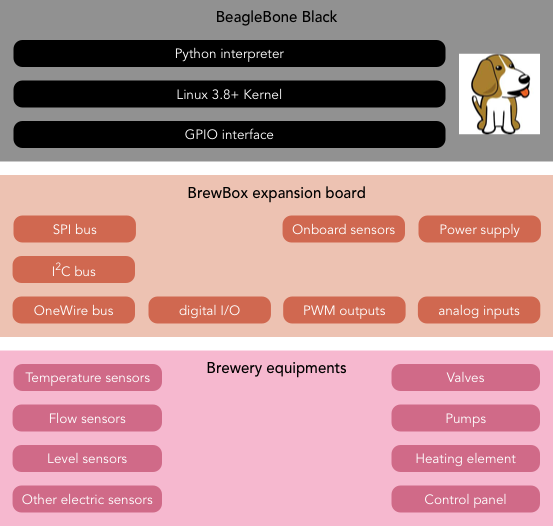
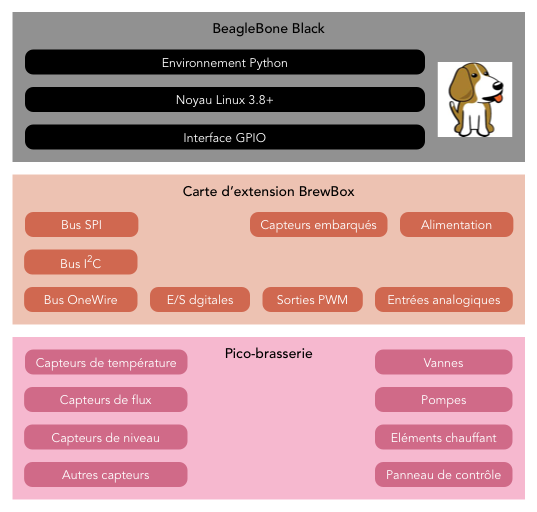
Traduction en français

diff --git a/theme/templates/index.html b/theme/templates/index.html
@@ -1,6 +1,6 @@
 {% extends "base.html" %}
 
-{% block title %}{{ SITENAME }} | Homebrewing goes professional{% endblock title %}
+{% block title %}{{ SITENAME }} | Brasser comme un Pro !{% endblock title %}
 
 {% block content %}
 <section role="main">
@@ -9,7 +9,7 @@
             <div class="col-md-12">
                 <h1 class="text-center"><i class="icon-beer icon-2x"></i>
                     &nbsp;{{ SITENAME }}</h1>
-                <h2 class="text-center">Homebrewing goes professional</h2>
+                <h2 class="text-center">Brasser comme un Pro !</h2>
             </div>
         </div>
     </header>
@@ -24,14 +24,14 @@
                 <i class="icon-beer"></i>
                     &nbsp;{{ SITENAME }}
             </h1>
-            <h2 class="text-center">Homebrewing goes professional</h2>
+            <h2 class="text-center">Brasser comme un Pro !</h2>
         </div>
     </div>
     <div class="row">
         <div class="col-md-8 text-justify">
             <div class="row">
                 <div class="col-md-12 summary text-justify">
-                    <p>Beerfactory provides open-source software and hardware for home brewing activity.</p>
+                    <p>Logiciels et matériels open-source pour l'activité de brassage amateur</p>
                 </div>
             </div>
             <div class="row">
@@ -54,7 +54,7 @@
                     {% endfor %}
                     <hr/>
                     <div class="text-center">
-                        <a href="{{ SITEURL }}/pages/getting-started.html" class="btn btn-lg btn-beer">Get started&nbsp;<i class="icon-circle-arrow-right"></i></a>
+                        <a href="{{ SITEURL }}/pages/getting-started.html" class="btn btn-lg btn-beer">Commencer&nbsp;<i class="icon-circle-arrow-right"></i></a>
                     </div>
                 </div>
             </div>

diff --git a/theme/templates/tag.html b/theme/templates/tag.html
@@ -1,6 +1,6 @@
 {% extends "base.html" %}
 
-{% block title %}{{ SITENAME }} | Blog tag: {{ tag.name }}{% endblock title %}
+{% block title %}{{ SITENAME }} | Etiquette: {{ tag.name }}{% endblock title %}
 
 {% block content %}
 <section role="main">
@@ -39,7 +39,7 @@
                 </p>
                 {{ article.summary }}
                 <p class="continue-reading">
-                    <a href="{{ SITEURL }}/{{ article.url }}">Read more <i class="icon-chevron-right"></i></a>
+                    <a href="{{ SITEURL }}/{{ article.url }}">Plus <i class="icon-chevron-right"></i></a>
                 </p>
                 </article>
             {% endfor %}

diff --git a/theme/templates/base.html b/theme/templates/base.html
@@ -63,7 +63,7 @@
             {% endfor %}
         {% endif %}
         <li class="dropdown .navbar-inverse">
-            <a href="#" class="dropdown-toggle" data-toggle="dropdown">Features <b class="caret"></b></a>
+            <a href="#" class="dropdown-toggle" data-toggle="dropdown">Fonctionnalités <b class="caret"></b></a>
             <ul class="dropdown-menu" role="menu">
             {% for p in pages|sort(attribute="order") %}
                 {% if "features" in p.section %}

diff --git a/theme/templates/tags.html b/theme/templates/tags.html
@@ -1,6 +1,6 @@
 {% extends "base.html" %}
 
-{% block title %}{{ SITENAME }} | Blog tags{% endblock title %}
+{% block title %}{{ SITENAME }} | Etiquettes{% endblock title %}
 
 {% block content %}
 <section role="main">
@@ -25,7 +25,7 @@
         <div class="col-sm-12">
             <h1>
                 <i class="icon-tags icon-large"></i>
-                    &nbsp;Tags
+                    &nbsp;Etiquettes
             </h1>
         </div>
     </div>

diff --git a/theme/templates/archives.html b/theme/templates/archives.html
@@ -39,7 +39,7 @@
                 </p>
                 {{ article.summary }}
                 <p class="continue-reading">
-                    <a href="{{ SITEURL }}/{{ article.url }}">Read more <i class="icon-chevron-right"></i></a>
+                    <a href="{{ SITEURL }}/{{ article.url }}">Plus <i class="icon-chevron-right"></i></a>
                 </p>
                 </article>
             {% endfor %}

diff --git a/theme/templates/category.html b/theme/templates/category.html
@@ -45,7 +45,7 @@
                 </p>
                 {{ article.summary }}
                 <p class="continue-reading">
-                    <a href="{{ SITEURL }}/{{ article.url }}">Read more <i class="icon-chevron-right"></i></a>
+                    <a href="{{ SITEURL }}/{{ article.url }}">Plus <i class="icon-chevron-right"></i></a>
                 </p>
                 </article>
             {% endfor %}

diff --git a/theme/templates/recents.html b/theme/templates/recents.html
@@ -1,5 +1,5 @@
 {% if articles %}
-    <h4>Recent articles</h4>
+    <h4>Articles récents</h4>
     <ul>
         {% for a in articles|batch(5)|first %}
             <li><a href="{{ SITEURL }}/{{ a.url }}">{{ a.title }}</a></li>

diff --git a/theme/templates/news.html b/theme/templates/news.html
@@ -1,5 +1,5 @@
 {% if categories %}
-    <h4>Project news</h4>
+    <h4>Nouvelles du projet</h4>
     <ul>
     {% for cat, arts in categories %}
         {% if "news" in cat.name %}

diff --git a/content/pages/features/brewbox-features.rst b/content/pages/features/brewbox-features.rst
@@ -2,34 +2,34 @@ BrewBox
 #######
 
 :date: 2013-09-07 16:29
-:title: BrewBox features
+:title: BrewBox
 :author: Nico
 :section: features
-:summary: BrewBox consists of hardware and software components combined together to monitor and control a home brewery
-:keywords: BrewBox, monitoring, controlling, automation, DIY, home brewing, beaglebone
+:summary: BrewBox est constitué de composants logiciels et matériels permettant de surveiller et contrôler une pico-brasserie
+:keywords: BrewBox, surveillance, contrôle, automatisation, DIY, brassage amateur, beaglebone
 :icon: icon-signal
 :order: 1
 
-Direct access to feature sections :
+Accès direct aux sections :
 
-- `Monitoring`_
-- `Control`_
+- `Surveillance`_
+- `Contrôle`_
 
-Monitoring
-==========
+Surveillance
+============
 
-Home brewery monitoring means watching different kind of physical quantities which are important during the brewing process like mash steps temperature, boiling control or liquid flow rate. BrewBox helps you in this task by providing an *hardware interface with sensors fitted in your brewery and a software to process data collected from these sensors*.
+Surveiller une pico-brasserie c'est suivre différentes grandeurs physiques qui sont importantes durant le brassage comme la température des paliers d'empâtage, le contrôle de l'ébullition ou les flux de liquides. BrewBox vous aide dans cette tâche en fournissant une *interface matérielle avec les capteurs équipant la pico-brasserie* et un *logiciel de collecte et d'analyse des données provenant de ces capteurs*.
 
-Hardware interface
-------------------
+Interface matérielle
+--------------------
 
-BrewBox hardware is mostly an interface between electronic sensors fitted in a home brewery and BrewBox software used to monitor it. To be able to work with a wide range of sensors BrewBox hardware supports to following inputs types :
+L'interface matérielle de BrewBox est principalement une interface électronique entre les capteurs équipant une pico-brasserie et le logiciel BrewBox chargé de la surveiller. BrewBox dispose d'un nombre important d'interface afin de s'interfacer avec un maximum de capteurs :
 
-- *5V to 12V analog inputs* for active and passive sensors converting physical quantities to analog electric signals like temperature probes or thermocouples
-- *digital inputs* for sensors converting physical quantities to electric pulses like flow transmitter, or on/off sensors like buttons or switches
-- `I2C <http://en.wikipedia.org/wiki/I2C>`_ , `SPI <http://en.wikipedia.org/wiki/SPI>`_ and `1-wire <http://en.wikipedia.org/wiki/1-Wire>`_ bus for sensors converting physical quantities to digital signal.
+- *entrées analogiques 5-12V* pour les capteurs actifs ou passifs convertissant les grandeurs physiques en signaux électriques analogiques comme les thermistances ou les thermocouples;
+- *entrées numériques* pour les capteurs convertissant les grandeurs physiques en pulsions électriques comme les compteurs ou les boutons ;
+- entrées bus `I2C <http://en.wikipedia.org/wiki/I2C>`_ , `SPI <http://en.wikipedia.org/wiki/SPI>`_ et `1-wire <http://en.wikipedia.org/wiki/1-Wire>`_ pur les capteurs interfacés avec ces bus.
 
-Physically, *BrewBox hardware consists of an expansion board* plugged to a `BeagleBone Black (BBB) <http://beagleboard.org/Products/BeagleBone%20Black>`_ using the board GPIO interface. Additionally with a large choice on inputs, BrewBox hardware also provide power supply management and onboard monitoring for the board itself.
+Concrètement, *l'interface matérielle de BrewBox est constituée d'une carte d'extension* connectée à un `BeagleBone Black (BBB) <http://beagleboard.org/Products/BeagleBone%20Black>`_. En plus d'un large choix d'entrée/sorties l'interface matérielle de BrewBox fournit également l'alimentation nécessaire ainsi qu'une surveillance de la carte elle-même.
 
 .. image:: /static/images/arch_schema1.png
    :alt: BrewBox architecture diagram
@@ -37,46 +37,45 @@ Physically, *BrewBox hardware consists of an expansion board* plugged to a `Beag
 
 
 
-Monitoring software
--------------------
+Logiciel de surveillance
+------------------------
 
-BrewBox software collects and convert data coming from sensors through the hardware interface. All the data collected are used to monitor the brewery activity by :
+Le logiciel BrewBox collecte et convertit les données provenant des capteurs au travers de l'interface matérielle. Les données collectées permettent de surveiller l'activité de la pico-brasserie :
 
-- building real time or history graphs for some physical quantities measured by sensors
-- compare physical quantities to expected values (for example mash steps temperature)
-- trigger alert when some value reach some limit
-- storing data collected for afterwards analysis or brewing batches comparison.
+- tracés en temps réel ou en historique de graphiques des grandeurs physiques mesurées
+- comparaison des grandeurs physiques par rapport à des consignes ou des valeurs attendues (par exemple paliers de température d'empâtage)
+- déclenchement d'alertes sur dépassement de valeur d'une grandeur physique
+- enregistrement des données collectées pour analyse à froid ou comparaison des brassages successifs.
 
-BrewBox software is also in charge of driving the hardware board and setting inputs mapping to sensors.
+Le logiciel BrewBox est également responsable du pilotage de la carte d'interface et de la configuration matérielle.
 
-BrewBox is written in `Python language <http://www.python.org>`_ and runs on the BeagleBone Black.
+BrewBox est écrit en `Python <http://www.python.org>`_ et s'exécute sur le BeagleBone Black.
 
 .. image:: /static/images/arch_schema2.png
    :alt: BrewBox architecture diagram
    :align: center
 
-Control
-=======
+Contrôle
+========
 
-Hardware interface
-------------------
+Interface matérielle
+--------------------
 
-Home brewery controling means acting on the brewery equipments in order to go through brewing steps like heating the boil kettle or transfering the mash. Actions can be manual (switching on a pump, lighting a gaz burner, etc.) or automated. This is where BrewBox helps. Besides hardware inputs, BrewBox hardware therefore provides several output types in order to drive brewery actuators :
+Le contrôle et l'automatisation d'un pico-brasserie consiste à agir sur les équipements de la pico-brasserie afin de procéder aux différentes étapes du brassage comme chauffer la cuve d'ébullition ou transférer le moût. Ces actions peuvent être manuelles (actionner une vanne, allumer un bruleur, ...) ou automatisées. C'est là que BrewBox intervient : en plus des entrées précédemment décrites BrewBox fournit différents types de sorties permettant de piloter les actionneurs de la pico-brasserie :
 
-- *5V to 12V digital outputs* used to drive on/off actuators like valves or LED
-- *5V to 12V DC outputs* with `Pulse Width Modulation (PWM) <http://en.wikipedia.org/wiki/Pulse-width_modulation>`_. These outputs can be used to drive and control pump speed
-- *110V or 220V AC* outputs for high voltage actuators. Control is available in two modes :
+- *sorties 5-12V digitales* utilisées pour piloter les actionneurs tout ou rien comme des vannes ou des LED
+- *sorties 5-12V* avec `PWM <http://en.wikipedia.org/wiki/Pulse-width_modulation>`_. Ces sorties peuvent par exemple être utilisées pour piloter et contrôler la vitesse d'une pompe
+- *sorties 110V ou 220V alternatif* pour les actionneurs de puissance. Les pilotage est disponible en deux modes :
 
-  - `solid-state relay <http://en.wikipedia.org/wiki/Solid-state_relay>`_ for on/off actuator
-  - PWM for heater power modulation for example.
+  - `relais SSR <http://en.wikipedia.org/wiki/Solid-state_relay>`_ pour les actionneurs tout ou rien
+  - PWM pour la modulation du chauffage par exemple
 
-Software
+Logiciel
 --------
 
-As for monitoring BrewBox software will drive the hardware interface outputs to control brewery actuators. Values or states sent to outputs will depend on programmatic setup. Brewer will be able to :
+Le logiciel BrewBox pilote l'interface matériel afin de contrôler l'état des actionneurs. Les consignes transmises aux sorties dépendent des actions de l'utilisateur ou de la programmation effectuée :
 
-- manually set the state or value of some outputs
-- automatically trigger state change or value on physical quantity change
-- automatically trigger state change or value on timer
-- drive outputs with a software `PID controller <http://en.wikipedia.org/wiki/PID_controller>`_.
+- Contrôle manuel de l'état de et des consignes de sortie
+- déclenchement automatique de changement d'état en fonction d'une grandeur physique mesurée ou après un temps écoulé
+- asservissement des sorties par contrôleur `PID <http://en.wikipedia.org/wiki/PID_controller>`_ logiciel
 

diff --git a/content/pages/getting_started.rst b/content/pages/getting_started.rst
@@ -1,35 +1,29 @@
-Getting started
-###############
+Commencer
+#########
 
 :date: 2013-08-25 11:47
 :author: Nico
 :section: topbar-first
-:summary: Beerfactory provides open source software and hardware for managing a home brewing activity
+:summary: Beerfactory fournit des logiciels et des matériels libres pour gérer une activité de brassage amateur
 :icon: icon-play-sign
-:keywords: BrewBox, BrewManager, monitoring, controling, automation, DIY, ERP, home brewing
-:description: Getting started with beerfactory projects
+:keywords: BrewBox, BrewManager, surveillance, contrôle, automatisation, DIY, ERP, brassage amateur
+:description: Démarrer avec les projets Beerfactory
 :order: 0
 
-.. raw:: html
 
-  <div class="alert alert-info">
-  This project is in early stage. Read the following pages to know what we try to achieve.
-  </div>
+Qu'est-ce que Beerfactory ?
+---------------------------
 
+Beerfactory a pour objectif de fournir des solutions matérielles et logiciels permettant de gérer l'activité de brassage amateur. Beerfactory s'inspire du phénomène DIY et est constitué actuellement de 2 sous-projets :
 
-What is Beerfactory ?
----------------------
-
-Beerfactory focuses on providing open source/hardware solutions for managing home brewing activity. Beeractory is based on DIY methods and will initially  consist of two sub-projects :
-
- * `BrewBox <|filename|/pages/features/brewbox-features.rst>`_ : software and hardware for *monitoring and controling* the beer production process.
- * `BrewManager <|filename|/pages/features/brewbox-features.rst>`_ : a *lightweight ERP* specialised in home brewing management.
+ * `BrewBox <|filename|/pages/features/brewbox-features.rst>`_ : un ensemble de logiciel et matériel pour *surveiller et contrôler* le processus de production de bière dans une pico-brasserie.
+ * `BrewManager <|filename|/pages/features/brewbox-features.rst>`_ : un *ERP léger* spécialisé dans la gestion du brassage amateur.
 
 
-What Beerfactory is not ?
--------------------------
+Qu'est ce que Beerfactory n'est pas ?
+-------------------------------------
 
-Beerfactory is not a beer recipe designer, there are already plenty of good softwares for this :
+Beerfactory n'est pas un logiciel d'édtion et de conception de recette de bière; Il y a déjà de nombreux logiciels pour ça :
 
  * `Beersmith <http://beersmith.com/>`_
  * `BeerTools <http://www.beertools.com/>`_
@@ -37,9 +31,9 @@ Beerfactory is not a beer recipe designer, there are already plenty of good soft
  * ...
 
 
-What's next ?
--------------
+La suite ...
+------------
 
-The initial goal is to release a first stable bersion of BrewBox. BrewManager will come later. Project activity will be reported on the `blog </category/news.html>`_. Anyone interested in this project is welcome to contribute on the `community forum <http://forum.beerfactory.org>`_ or see the project's source `repositories on Github <https://github.com/beerfactory>`_ .
+Le premier objectif est de publier une première version de BrewBox. BrewManager viendra plus tard ... `Ce blog </category/news.html>`_ rapportera l'activité du projet.
 
-
+Quiconque intéressé par ce projet peut contribuer sur le `forum <http://forum.beerfactory.org>`_ ou en étudiant le code source du projet sur `Github <https://github.com/beerfactory>`_.

diff --git a/content/news/new_website.rst b/content/news/new_website.rst
@@ -1,13 +1,13 @@
-New website available
-#####################
+Nouveau site disponible
+#######################
 
 :date: 2013-08-25 22:22
 :tags: general
 :author: Nico
-:summary: A new version of the project website is now available
+:summary: Nouvelle version du site Web du projet
 
-Welcome to this new website where you'll find here all the information concerning Beerfactory project.
+Bienvenue sur ce nouveau site. Vous y trouverez toutes les informations concernant le projet Beerfactory.
 
-This website has been made with `Pelican <http://blog.getpelican.com/>`_, a static site generator written in python. Pelican allows to build a completelly static site, ie. made of plain old html files. Content is written in simple `reStructuredText <http://docutils.sourceforge.net/rst.html>`_ files and processed using `Jinja2 <http://jinja.pocoo.org/>`_ HTML templates. Generated output is a complete website structure containing HTML files and static resources like CSS files, javascript and images. It's then easy to upload to a minimal webserver. No more PHP or database needed to run a heavy `CMS <http://en.wikipedia.org/wiki/Content_management_system>`_.
+Ce site est construit avec `Pelican <http://blog.getpelican.com/>`_, un générateur de site écrit en Python. Pelican permet de construire simplement un site complètement statique, c'est-à-dire composé uniquement de pages HTML sans moteur côté serveur. Le contenu des pages est écrit dans des fichiers au format `reStructuredText <http://docutils.sourceforge.net/rst.html>`_ et transformé en HTML à partir de modèles HTML par `Jinja2 <http://jinja.pocoo.org/>`_. Le résultat généré correspond à la structure complète du site Web avec les pages, les fichiers CSS, javascript ainsi que les images. Il suffit de télécharger le tout sur un serveur web avec une configuration minimale. Plus besoin de PHP ou de base de données pour faire tourner un `CMS <http://en.wikipedia.org/wiki/Content_management_system>`_.
 
-For information concerning Pelican and how to use it see the `github repository <https://github.com/beerfactory/beerfactory-site>`_ where HTML templates and `reStructuredText <http://docutils.sourceforge.net/rst.html>`_ source files used for this website are stored.
+Pour en savoir plus sur Pelican et son utilisation, reportez-vous au `référentiel github <https://github.com/beerfactory/beerfactory-site>`_ du projet où sont stockés les templates HTML et les fichiers sources de site.

diff --git a/content/pages/about.rst b/content/pages/about.rst
@@ -1,16 +1,16 @@
-About
-######
+A propos
+########
 
 :date: 2013-08-25 11:47
 :author: Nico
 :section: footer
-:summary: General informations about the project
+:summary: Informations générales sur le projet
 :keywords: open-source, homebrewing, DIY
 :icon: icon-question-sign
 :order: 0
 
-Beerfactory is an open-source project created and maintained by `Nicolas Jouanin <https://twitter.com/NicolasJouanin>`_. This project provides both hardware and software solutions for managing homebrewing activity.
+Beerfactory est un projet open-source créé et maintenu par `Nicolas Jouanin <https://twitter.com/NicolasJouanin>`_. Il fournit des solutions matérielles et logicielles pour gérer l'activité de brassage amateur.
 
-Softwares and hardwares produced by Beerfactory are licensed under `GPL v3 <http://www.gnu.org/licenses/gpl.html>`_ license. Documentation is licensed under Creative Commons `CC BY 3.0 <http://creativecommons.org/licenses/by/3.0/>`_. More information concerning licensing is available on the `licensing information <|filename|license.rst>`_ page.
+Les logiciels et la documentation matérielle produit par Beerfacory sont licenciés sous la licence `GPL v3 <http://www.gnu.org/licenses/gpl.html>`_ license. La documentation est publié sous licence Creative Commons `CC BY 3.0 <http://creativecommons.org/licenses/by/3.0/>`_. Plus d'informations sur la page d'`information sur les licences <|filename|license.rst>`_.
 
-This website is built with `Bootstrap 3.0 <http://getbootstrap.com/>`_. Icons are provided by the excellent `Awesome Font <http://fortawesome.github.io/Font-Awesome/icons/>`_ iconic font. Content is generated with `Pelican <http://blog.getpelican.com/>`_.
+Ce site Web est construit avec `Bootstrap 3.0 <http://getbootstrap.com/>`_. Les icônes sont fournis par l'excellente police `Awesome Font <http://fortawesome.github.io/Font-Awesome/icons/>`_. Le contenu est généré par `Pelican <http://blog.getpelican.com/>`_.
